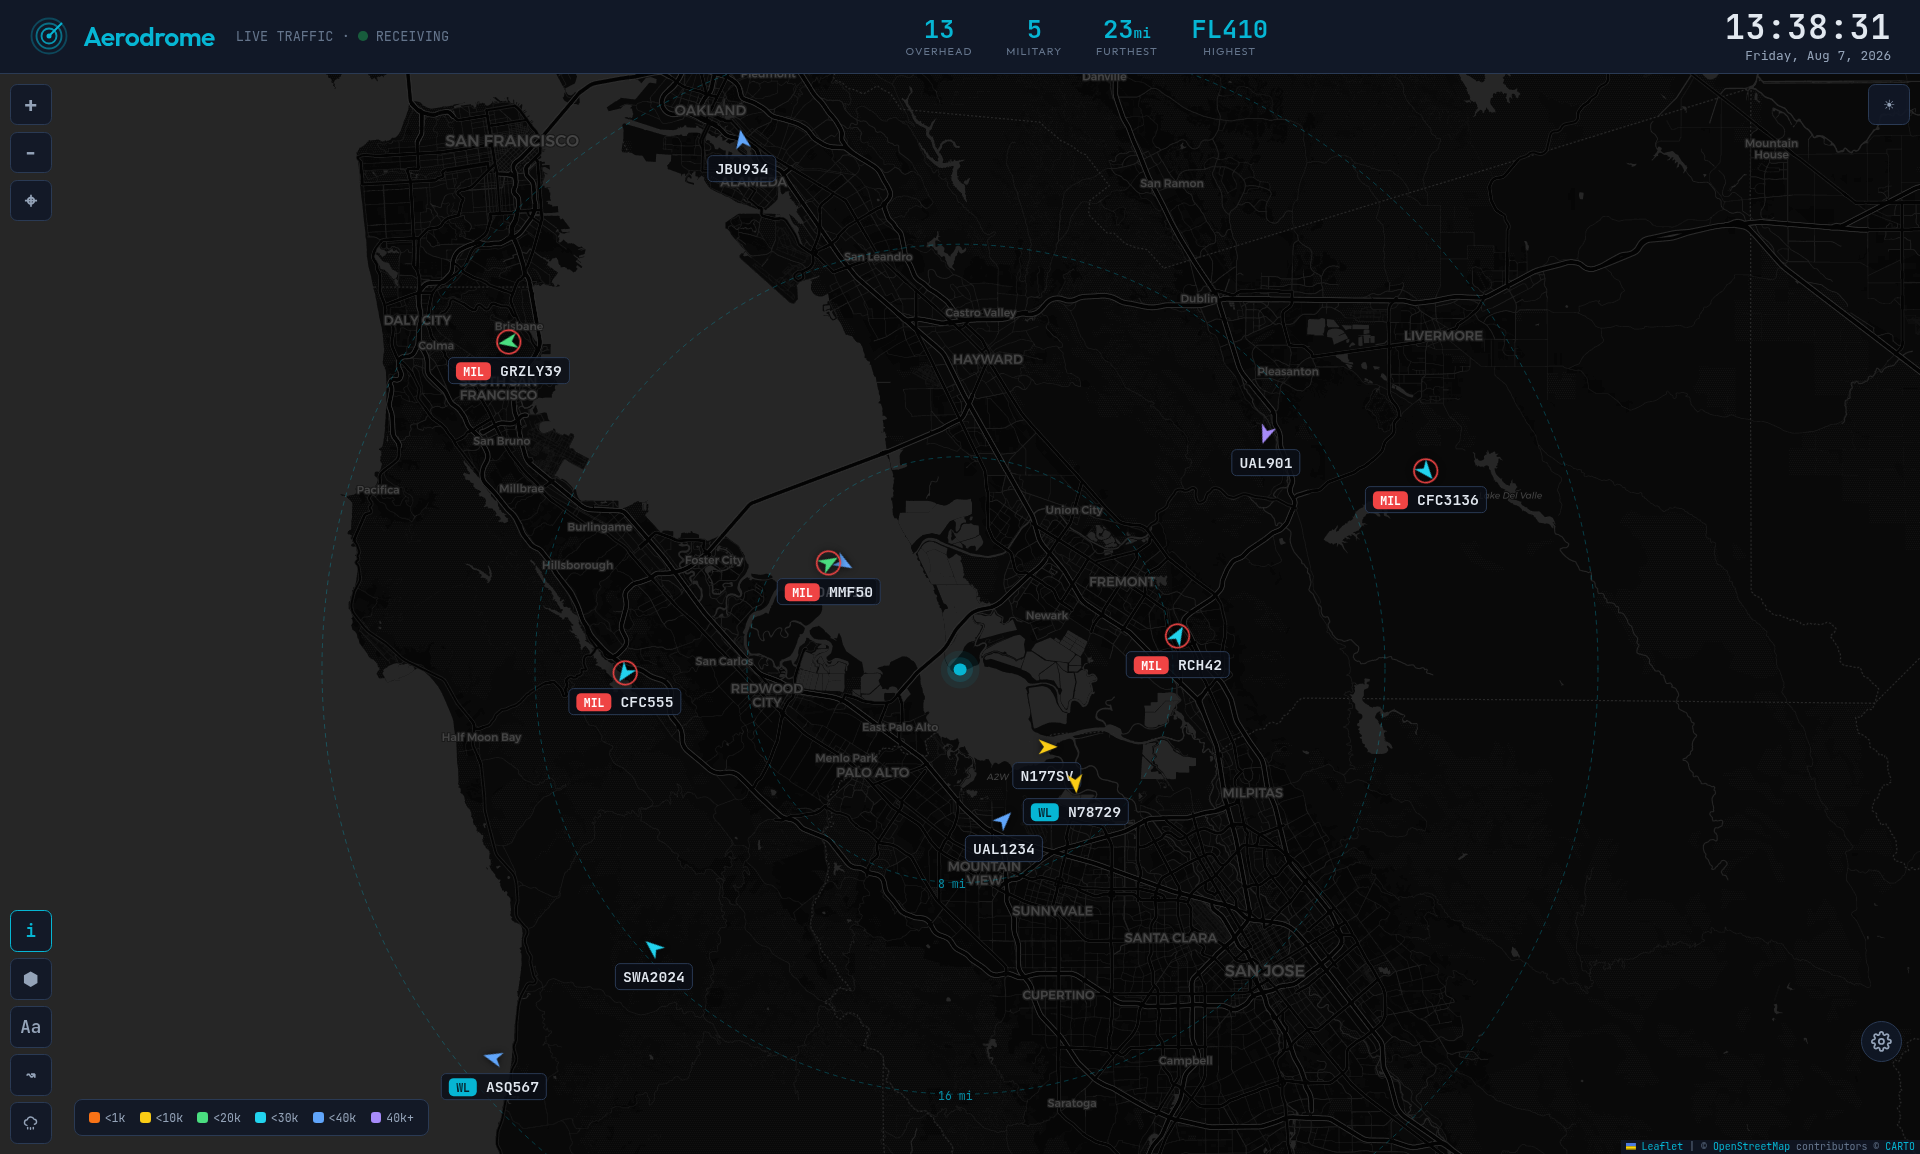
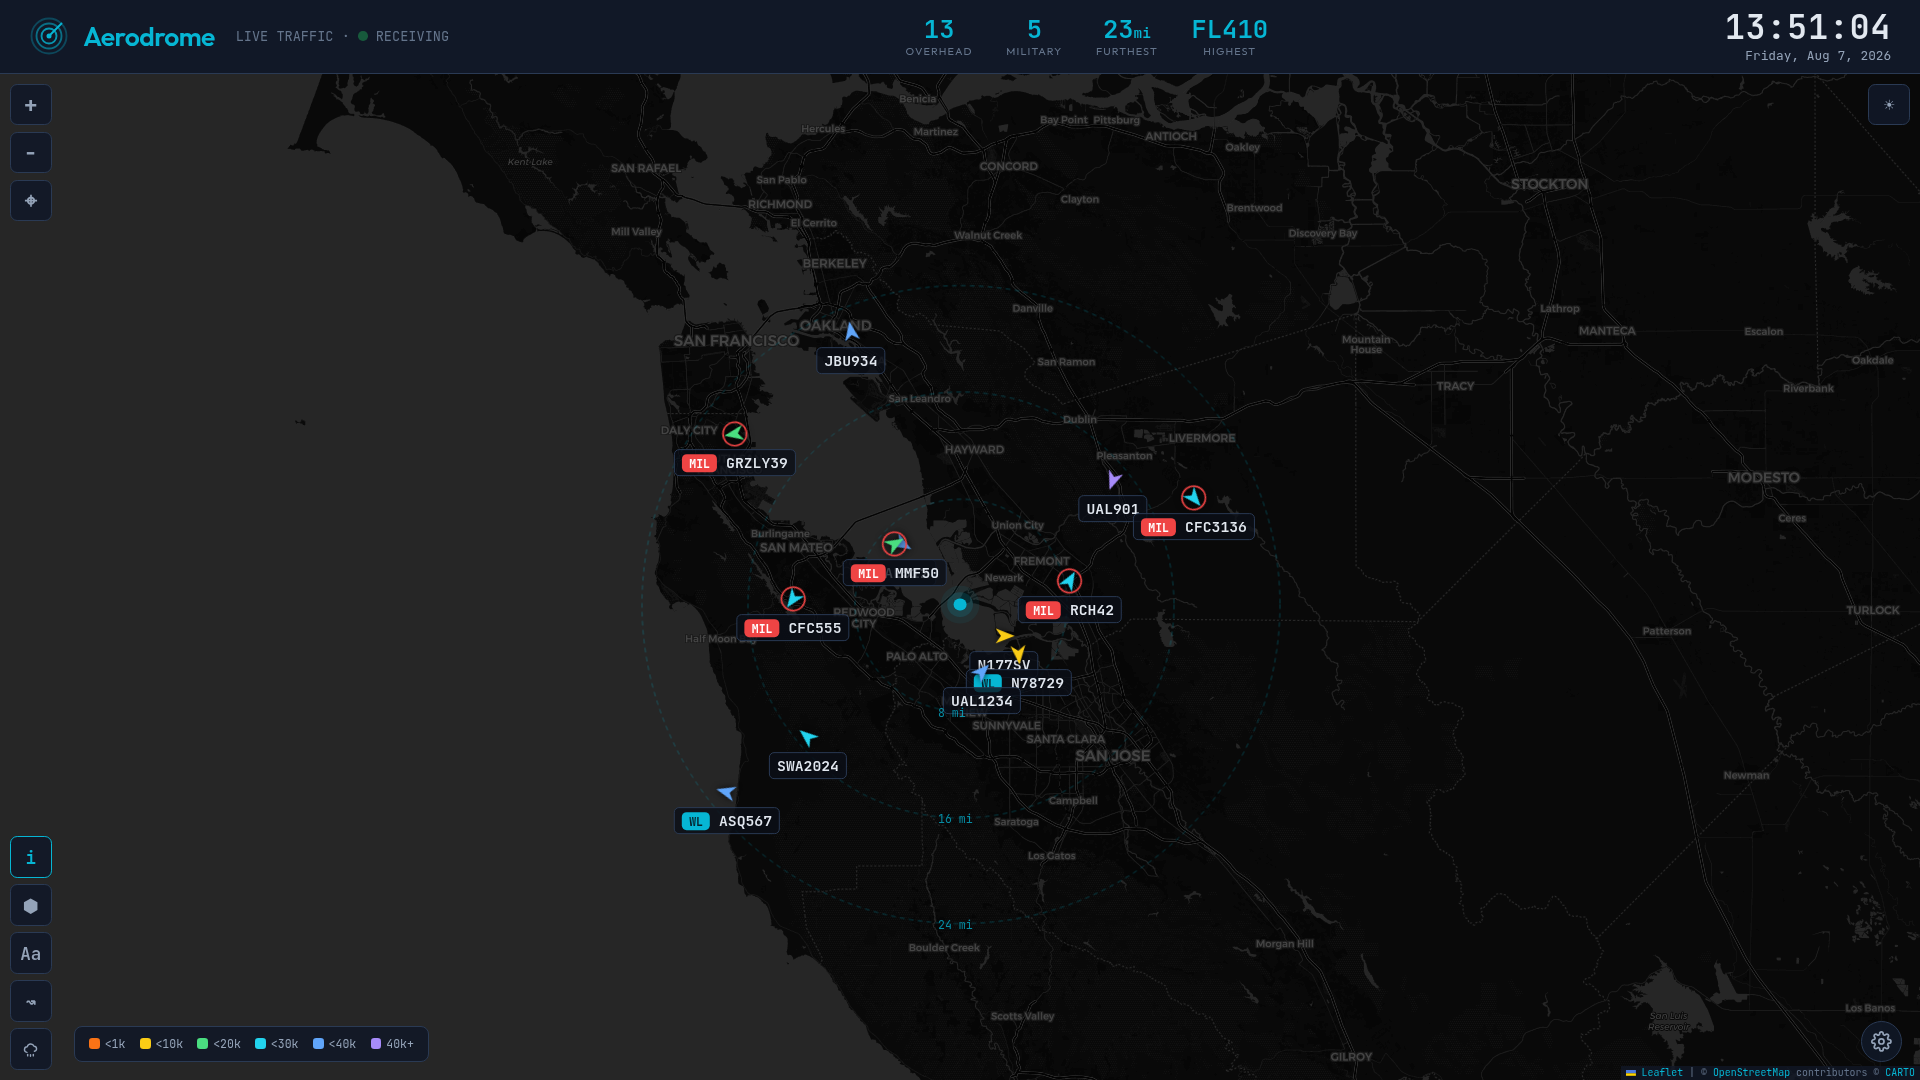
v3.4.118: board radar-wall sizing fix + tap-trail — folds the .115/.116/.117 box-only RCs; root cause of the clipped bottom controls was .leaflet-container{height:100%} over-constraining modeA's top+bottom insets (radar wall only — hybrid's scope is flex-sized); tap-details now draws the selected pl

diff --git a/templates/board.html b/templates/board.html
@@ -80,7 +80,12 @@ body.picking{cursor:default}
    while tiles load / when no receiver location is configured. ---------- */
 .scope-wrap{position:absolute;inset:0;overflow:hidden;
   background:radial-gradient(circle at 50% 52%, #0d1522 0%, #0a0e17 72%)}
-.leaflet-container{background:#0a0e17;width:100%;height:100%}
+/* No width/height here (v3.4.117): the scope element IS the Leaflet
+   container, positioned with top+bottom insets — an explicit height:100%
+   overrides bottom:0 (over-constrained absolute box), sizing the map to the
+   full mode height and hanging the bottom controls one header-height below
+   the screen. That was the kiosk's clipped-tools bug. */
+.leaflet-container{background:#0a0e17}
 .scope-wrap .leaflet-control-attribution{background:rgba(17,24,39,.8);
   color:var(--t3);font-size:.62rem;font-family:var(--mono)}
 .scope-wrap .leaflet-control-attribution a{color:var(--cyan)}
@@ -497,8 +502,8 @@ function _wake(){
   document.addEventListener(ev, _wake, {passive: true}));
 $('gearBtn').addEventListener('click', showPicker);
 function startMode(m){
+  closeDetail();   // a details panel (and its trail) never survives a switch
   MODE = m;
-  SEL = null;    // a details panel never survives a layout switch
   const el = {radar: 'modeA', board: 'modeB', hybrid: 'modeC'}[m];
   document.querySelectorAll('.mode').forEach(x => x.classList.remove('on'));
   $(el).classList.add('on');
@@ -628,6 +633,7 @@ function _mapFor(el, opts){
   }).setView([0, 0], 2);
   const st = {map, el, markers: {}, rings: [], fitted: false, userMoved: false,
               _framing: false, trailBuf: {}, trailSeg: {}, coverage: null,
+              selSegs: [], selLast: null,
               canvas: L.canvas({padding: 0.5}),
               lightTiles: L.tileLayer('https://tile.openstreetmap.org/{z}/{x}/{y}.png', {
                 maxZoom: 18,
@@ -1074,13 +1080,57 @@ let SEL = null;                    // icao shown in the details panel
 const DETAIL_IDLE_MS = 90 * 1000;
 function openDetail(icao){
   SEL = icao;
+  _drawSelTrail(icao);
   renderAll();
 }
 function closeDetail(){
   if (SEL == null) return;
   SEL = null;
+  _clearSelTrail();
   forEachSt(st => { if (st.detailEl) st.detailEl.classList.remove('on'); });
   renderAll();
+}
+/* Selected-aircraft trail — its recent track (current pass only, like the
+   Live radar's clicked-aircraft trail), altitude-coloured, extended live as
+   new fixes arrive via the poll (see renderScope). */
+function _clearSelTrail(){
+  forEachSt(st => {
+    (st.selSegs || []).forEach(s => st.map.removeLayer(s));
+    st.selSegs = [];
+    st.selLast = null;
+  });
+}
+function _selSeg(st, p1, p2, alt){
+  st.selSegs.push(L.polyline([p1, p2], {
+    renderer: st.canvas, color: altColor(alt),
+    weight: 2.5, opacity: 0.75, interactive: false,
+  }).addTo(st.map));
+}
+function _drawSelTrail(icao){
+  _clearSelTrail();
+  const st = activeSt();
+  if (!st) return;
+  fetch(`/api/aircraft/${encodeURIComponent(icao)}/positions?window=24h`)
+    .then(r => r.ok ? r.json() : null)
+    .then(j => {
+      if (!j || !j.positions || SEL !== icao) return;
+      // positions = [[seen_at, lat, lon, alt], ...]. Draw only the CURRENT
+      // PASS — walk back from the newest fix and stop at the first gap over
+      // 10 min, so re-entries don't draw straight "teleport" segments.
+      const TRAIL_GAP_SEC = 600;
+      const all = j.positions.filter(p => p[1] != null && p[2] != null)
+        .sort((a, b) => a[0] - b[0]);
+      if (!all.length) return;
+      let start = all.length - 1;
+      while (start > 0 && (all[start][0] - all[start - 1][0]) <= TRAIL_GAP_SEC) start--;
+      const seg = all.slice(start);
+      if (seg.length < 2) return;
+      for (let i = 0; i < seg.length - 1; i++) {
+        _selSeg(st, [seg[i][1], seg[i][2]], [seg[i + 1][1], seg[i + 1][2]], seg[i][3]);
+      }
+      st.selLast = [seg[seg.length - 1][1], seg[seg.length - 1][2]];
+    })
+    .catch(() => {});
 }
 function renderDetail(st){
   if (!st || !st.detailEl) return;
@@ -1221,6 +1271,12 @@ function renderScope(el, opts){
         {icon, interactive: true, keyboard: false})
         .on('click', () => openDetail(a.icao))
         .addTo(st.map);
+    }
+    // Grow the selected aircraft's trail forward as fixes arrive.
+    if (a.icao === SEL && st.selLast &&
+        (st.selLast[0] !== a.lat || st.selLast[1] !== a.lon)) {
+      _selSeg(st, st.selLast, [a.lat, a.lon], a.altitude);
+      st.selLast = [a.lat, a.lon];
     }
   });
   Object.keys(st.markers).forEach(ic => {

diff --git a/templates/docs.html b/templates/docs.html
@@ -19,7 +19,7 @@
 })();
 </script>
     <!-- theme:inline-fouc-end -->
-<!-- Version: 3.4.117 -->
+<!-- Version: 3.4.118 -->
 <meta charset="UTF-8">
 <meta name="viewport" content="width=device-width, initial-scale=1.0">
 <title>Aerodrome Documentation</title>

diff --git a/templates/about.html b/templates/about.html
@@ -19,7 +19,7 @@
 })();
 </script>
     <!-- theme:inline-fouc-end -->
-<!-- Version: 3.4.117 -->
+<!-- Version: 3.4.118 -->
 <meta charset="UTF-8">
 <meta name="viewport" content="width=device-width, initial-scale=1.0">
 <title>About — Aerodrome</title>

diff --git a/templates/diagnostics-slow-queries.html b/templates/diagnostics-slow-queries.html
@@ -1,4 +1,4 @@
-<!-- Version: 3.4.117 -->
+<!-- Version: 3.4.118 -->
 <!DOCTYPE html>
 <!-- theme:inline-fouc-start -->
 <script>(function(){var t=localStorage.getItem('theme');if(t==='light')document.documentElement.classList.add('light');})();</script>

diff --git a/templates/logs.html b/templates/logs.html
@@ -19,7 +19,7 @@
 })();
 </script>
     <!-- theme:inline-fouc-end -->
-<!-- Version: 3.4.117 -->
+<!-- Version: 3.4.118 -->
 <meta charset="UTF-8">
 <meta name="viewport" content="width=device-width, initial-scale=1.0">
 <title>Aerodrome Logs</title>

diff --git a/templates/aircraft.html b/templates/aircraft.html
@@ -1,4 +1,4 @@
-<!-- Version: 3.4.117 -->
+<!-- Version: 3.4.118 -->
 <!DOCTYPE html>
 <html lang="en">
 <head>

diff --git a/templates/config.html b/templates/config.html
@@ -1,4 +1,4 @@
-<!-- Version: 3.4.117 -->
+<!-- Version: 3.4.118 -->
 <!DOCTYPE html>
 <html lang="en">
 <head>

diff --git a/templates/diagnostics-watchlist.html b/templates/diagnostics-watchlist.html
@@ -1,4 +1,4 @@
-<!-- Version: 3.4.117 -->
+<!-- Version: 3.4.118 -->
 <!DOCTYPE html>
 <html lang="en">
 <head>

diff --git a/templates/diagnostics.html b/templates/diagnostics.html
@@ -1,4 +1,4 @@
-<!-- Version: 3.4.117 -->
+<!-- Version: 3.4.118 -->
 <!DOCTYPE html>
 <html lang="en">
 <head>

diff --git a/templates/index.html b/templates/index.html
@@ -1,4 +1,4 @@
-<!-- Version: 3.4.117 -->
+<!-- Version: 3.4.118 -->
 <!DOCTYPE html>
 <html lang="en">
 <head>

diff --git a/templates/performance.html b/templates/performance.html
@@ -1,4 +1,4 @@
-<!-- Version: 3.4.117 -->
+<!-- Version: 3.4.118 -->
 <!DOCTYPE html>
 <html lang="en">
 <head>

diff --git a/templates/status.html b/templates/status.html
@@ -1,4 +1,4 @@
-<!-- Version: 3.4.117 -->
+<!-- Version: 3.4.118 -->
 <!DOCTYPE html>
 <html lang="en">
 <head>
